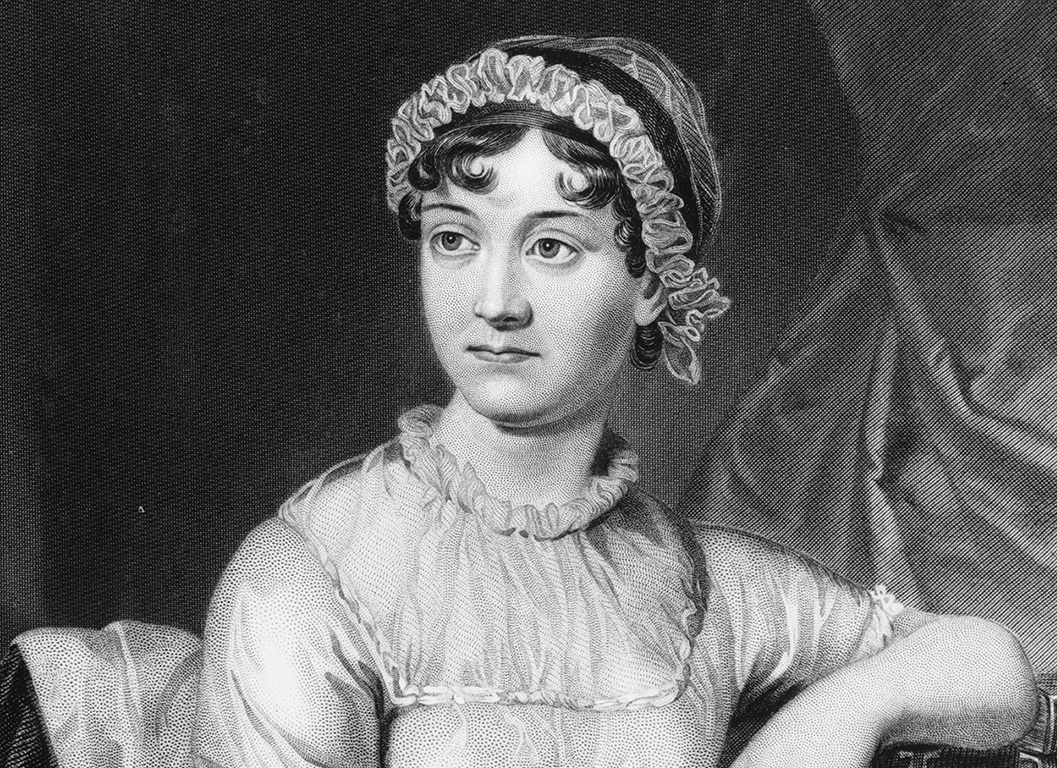
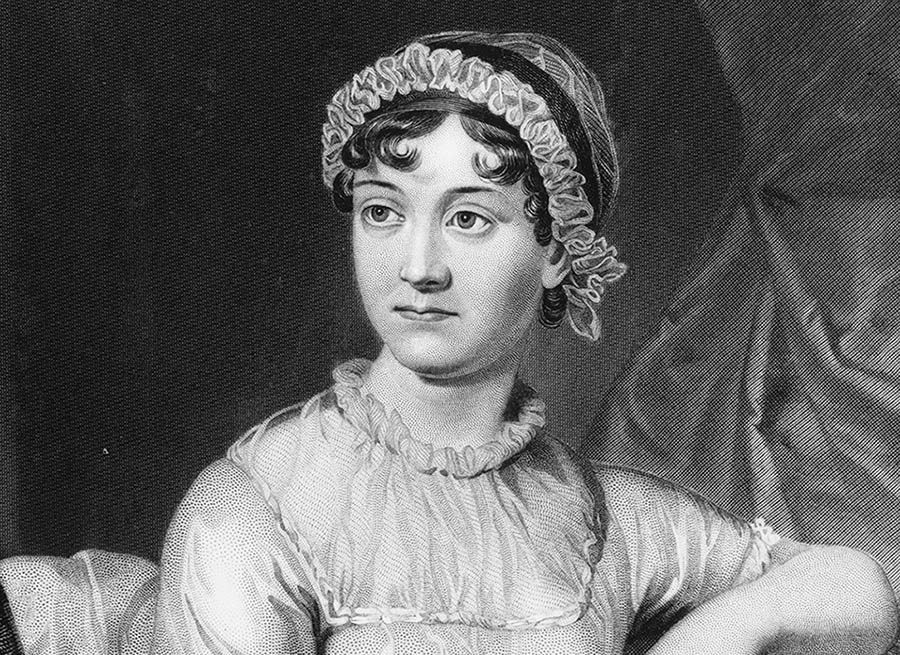
test smaller pictures

diff --git a/script.js b/script.js
@@ -201,7 +201,12 @@ var quotes = [
   ["Being with you or without you is how I measure my time.", "Jorge Luis Borges"],
   ["My whole life has been walking by the side of a bottomless chasm, jumping from stone to stone. Sometimes I try to leave my narrow path and join the swirling mainstream of life, but I always find myself drawn inexorably back to the chasm’s edge, and there I shall walk until I finally fall into the abyss.", "Edvard Munch"],
   ["Suddenly she realized that what she was regretting was not the lost past but the lost future, not what had not been but what would never be.", "F.Scott Fitzgerald"],
-  ["Killing myself was a matter of such indifference to me that I felt like waiting for a moment when it would make some difference.", "Fyodor Dostoevsky"]
+  ["Killing myself was a matter of such indifference to me that I felt like waiting for a moment when it would make some difference.", "Fyodor Dostoevsky"],
+  ["I have spent my life trying to understand the function of remembering, which is not the opposite of forgetting, but rather its inner lining. We don’t remember. We write memory much as history is rewritten.", "Chris Marker"],
+  ["I have such a fear of finding another like myself, and such a desire to find one! I am so utterly lonely, but I also have such a fear that my isolation be broken through, and I no longer be the head and ruler of my universe.", "Anaïs Nin"],
+  ["And the aura of you remains, remains, remains…", "Anne Sexton"],
+  ["Most of the dandelions had changed from suns into moons.", "Vladimir Nabokov"],
+  ["All women become like their mothers. That is their tragedy. No man does, and that is his.", "Oscar Wilde"]
 ];
 
 var random = "";
@@ -266,6 +271,8 @@ function getQuote() {
     var austen = ['images/austen.jpg', 'images/austen2.jpg', 'images/austen3.jpg',];
     var nietzsche = ['images/nietzsche.jpg', 'images/nietzsche2.jpg', 'images/nietzsche3.jpg',];
     var borges = ['images/borges.jpg', 'images/borges2.jpg', 'images/borges3.jpg',];
+    var cmarker = ['images/cmarker.jpg', 'images/cmarker2.jpg',];
+    var wilde = ['images/wilde.jpg', 'images/wilde2.jpg', 'images/wilde3.jpg',];
 
     $(".bg").animate({
           opacity: 0
@@ -411,6 +418,14 @@ function getQuote() {
 
     case "David Malouf":
     $('.bg').css({'background-image' : 'url('+ malouf[Math.floor(Math.random() * malouf.length)] + ')'});
+    break; 
+
+    case "Chris Marker":
+    $('.bg').css({'background-image' : 'url('+ cmarker[Math.floor(Math.random() * cmarker.length)] + ')'});
+    break; 
+
+    case "Oscar Wilde":
+    $('.bg').css({'background-image' : 'url('+ wilde[Math.floor(Math.random() * wilde.length)] + ')'});
     break; 
 
     case "Plato":
